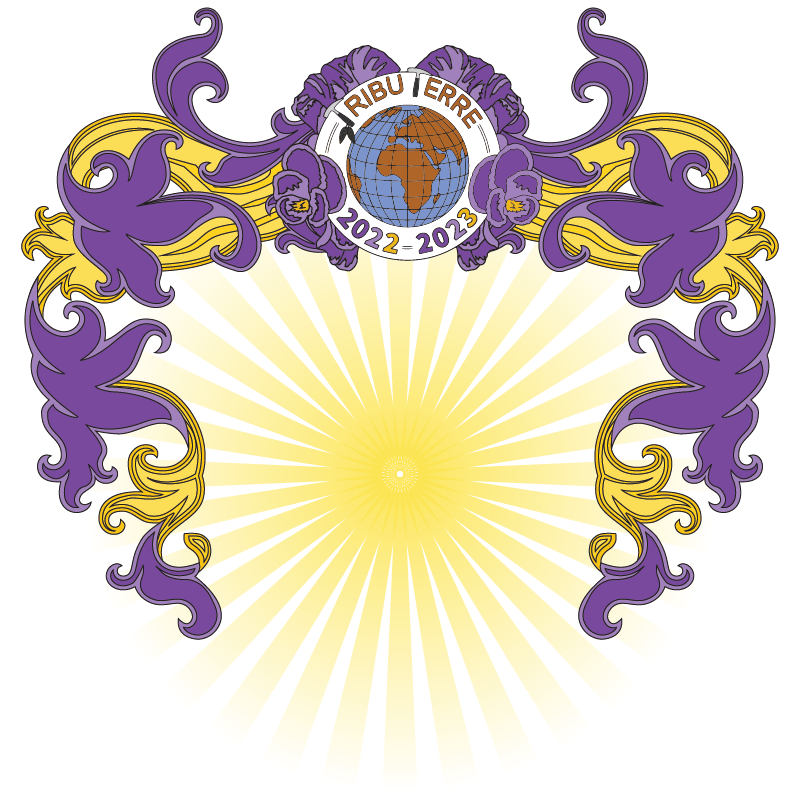
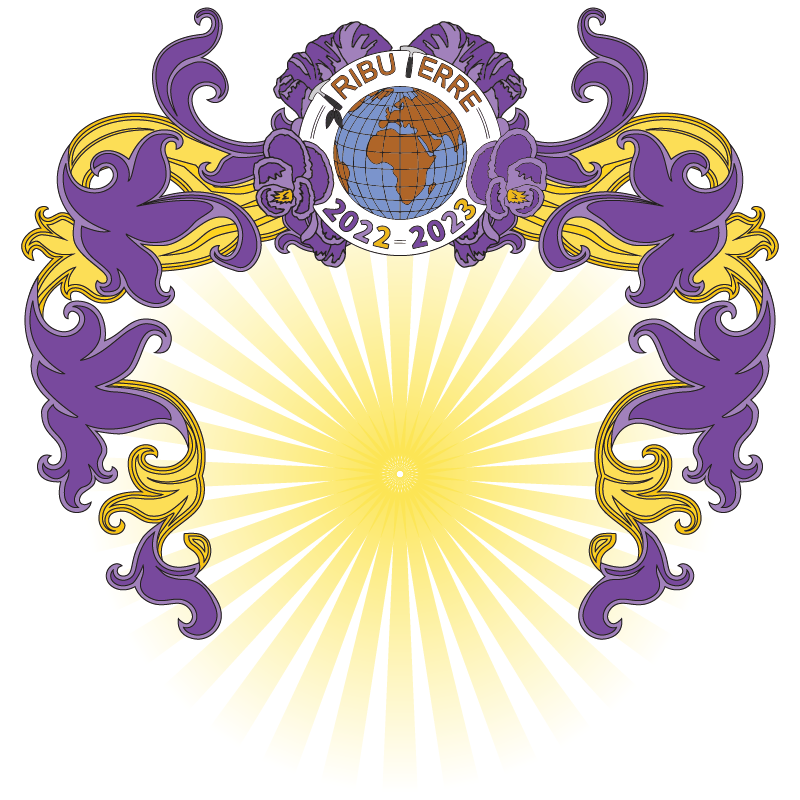
feat: Ajout de davantage de mandats.

Changed region(s): [[0.3125, 0.0312, 0.6875, 0.3438]]

diff --git a/association/historique/histo.css b/association/historique/histo.css
@@ -1,3 +1,8 @@
+.histo-logo > img {
+    max-width: 33%;
+    box-shadow: none;
+}
+
 .histo-compo {
     position: relative;
     width: 100%;
@@ -18,7 +23,7 @@
 
     position: absolute;
     left: 0;
-    top: 18%;
+    top: 0;
     right: 0;
     bottom: 0;
     margin: auto;

diff --git a/association/historique/gabarit.php b/association/historique/gabarit.php
@@ -13,14 +13,34 @@
         <h3><i>Présidence de Jiliane <span class="pc">Bourriot</span></i></h3>
         <div class="histo-compo">
             <img class="histo-compo-bg" src="/resources/png/fondMandatViolette.png" alt="Fond mandat violette">
-            <img class="histo-compo-fg" src="/resources/jpg/mandatViolette.jpg" alt="Photo mandat violette">
+            <img class="histo-compo-fg" style="top: 18%;" src="/resources/jpg/mandatViolette.jpg" alt="Photo mandat violette">
         </div>
         <hr>
         <h2>2021 - 2022 | Mandat Artichaut</h2>
         <h3><i>Présidence d'Anaël <span class="pc">Barodine</span></i></h3>
         <div class="histo-compo">
             <img class="histo-compo-bg" src="/resources/png/fondMandatArtichaut.png" alt="Fond mandat artichaut">
-            <img class="histo-compo-fg" src="/resources/jpg/mandatArtichaut.jpg" alt="Photo mandat artichaut">
+            <img class="histo-compo-fg" style="top: 18%;" src="/resources/jpg/mandatArtichaut.jpg" alt="Photo mandat artichaut">
+        </div>
+        <hr>
+        <h2>2020 - 2021</h2>
+        <h3><i>Présidence de Simon <span class="pc">Medelli</span></i></h3>
+        <div class="histo-logo">
+            <img src="/resources/png/imgLogoMini.png" alt="Logo de Tribu-Terre">
+        </div>
+        <hr>
+        <h2>2019 - 2020</h2>
+        <h3><i>Présidence de Riad <span class="pc">Benchekra</span></i></h3>
+        <div class="histo-compo">
+            <img class="histo-compo-bg" src="/resources/png/fondMandatAncien.png" alt="Fond mandat 2019-2020">
+            <img class="histo-compo-fg" style="top: 18%;" src="/resources/jpg/mandat20192020.jpg" alt="Photo mandat 2019-2020">
+        </div>
+        <hr>
+        <h2>2018 - 2019</h2>
+        <h3><i>Présidence de Quentin <span class="pc">Baju</span></i></h3>
+        <div class="histo-compo">
+            <img class="histo-compo-bg" src="/resources/png/fondMandatAncien.png" alt="Fond mandat 2018-2019">
+            <img class="histo-compo-fg" style="top: 18%;" src="/resources/jpg/mandat20182019.jpg" alt="Photo mandat 2018-2019">
         </div>
     </div>
     <div class="col-sm-2"></div>
